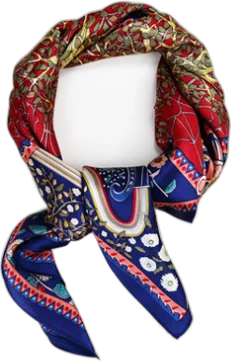
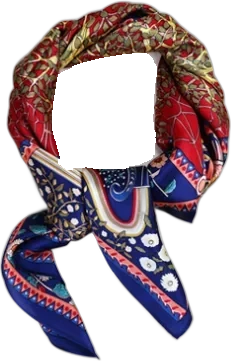
Hide children's pieces in Weddings; fix broken category covers
- Weddings never shows flower girl dresses or child-titled pieces (owner, 2026-11-16).
- Accessories scarf cutout: clear the white background inside the loop.
- Men's Formal and Clothing cards use whole-look covers instead of a headless jacket and cropped trousers.

Claude-Session: https://claude.ai/code/session_01BVg3Sq8XLNgnGQBVTh2N5Q

diff --git a/functions/api/catalog.ts b/functions/api/catalog.ts
@@ -3,6 +3,7 @@ import { cleanSupplierText, cleanTitle, imageAlt } from '../../src/lib/productTe
 import { siteImage } from '../../src/lib/imageProxy';
 import { modelPhoto } from '../../src/lib/modelPhotos';
 import { assignmentFromStoreTags, publicProductTags } from '../../src/lib/storeCollectionTaxonomy';
+import { isChildrensWedding } from '../../src/lib/kids';
 
 type DbProduct = {
   id: string; slug: string; title: string; description: string;
@@ -87,6 +88,8 @@ export async function onRequestGet({ env, request }: { env: Env; request: Reques
     if (!all && !purchasable) continue;
     const productTags = safeJsonArray(row.tags_json);
     const storeAssignment = assignmentFromStoreTags(productTags);
+    // No children's pieces in the Weddings category (owner, 2026-11-16).
+    if (!all && isChildrensWedding(row.title, storeAssignment?.collection, storeAssignment?.subcategory)) continue;
     products.push({
       id: row.id, slug: row.slug, title: cleanTitle(row.title), description: all ? row.description : slug ? cleanSupplierText(row.description ?? '') : '',
       priceCents: row.price_cents, compareAtCents: row.compare_at_cents ?? undefined,

diff --git a/src/site/women/WomenIndexPages.tsx b/src/site/women/WomenIndexPages.tsx
@@ -11,7 +11,11 @@ import { isCurvyLook } from '../../lib/curvyLooks';
 export type Card = { key: string; label: string; line: string; to: string; items: Product[] };
 
 // Cover photos picked by eye for the cards the owner asked about (2026-10-27): red patent stilettos, olive leather tote.
-const COVERS: Record<string, string> = { 'womens-shoes': 'cj-1514869860055134208', 'womens-bags': 'cj-1721364713369505792' };
+// Hand-picked whole-look covers, so no card shows a headless or cropped photo.
+const COVERS: Record<string, string> = {
+  'womens-shoes': 'cj-1514869860055134208', 'womens-bags': 'cj-1721364713369505792',
+  'mens-formal': 'cj-2099687243007574018', 'mens-everyday': 'cj-1747828416734310400',
+};
 
 /** A glass card with a popped-out photo of one product from the set; empty sets say "Coming soon". */
 export function IndexCard({ card }: { card: Card }) {

diff --git a/src/lib/kids.ts b/src/lib/kids.ts
@@ -3,3 +3,7 @@ export const KIDS = /\b(girls?|girl's|kids?|child|children|baby|babies|toddlers?
 /** Children's pieces (flower girl dresses, family sets) stay on their own pages, never on the home page. */
 export const isKidsPiece = (product: { title: string; storeCollection?: string; storeSubcategory?: string }) =>
   product.storeSubcategory === 'flower-girl-dresses' || product.storeCollection === 'couple-parent-child-clothing' || product.storeCollection === 'parent-child-clothing' || KIDS.test(product.title);
+
+/** No children's pieces in the Weddings category (owner, 2026-11-16): the catalogue never sends these. */
+export const isChildrensWedding = (title: string, collection?: string, subcategory?: string) =>
+  subcategory === 'flower-girl-dresses' || (collection === 'weddings' && KIDS.test(title));
